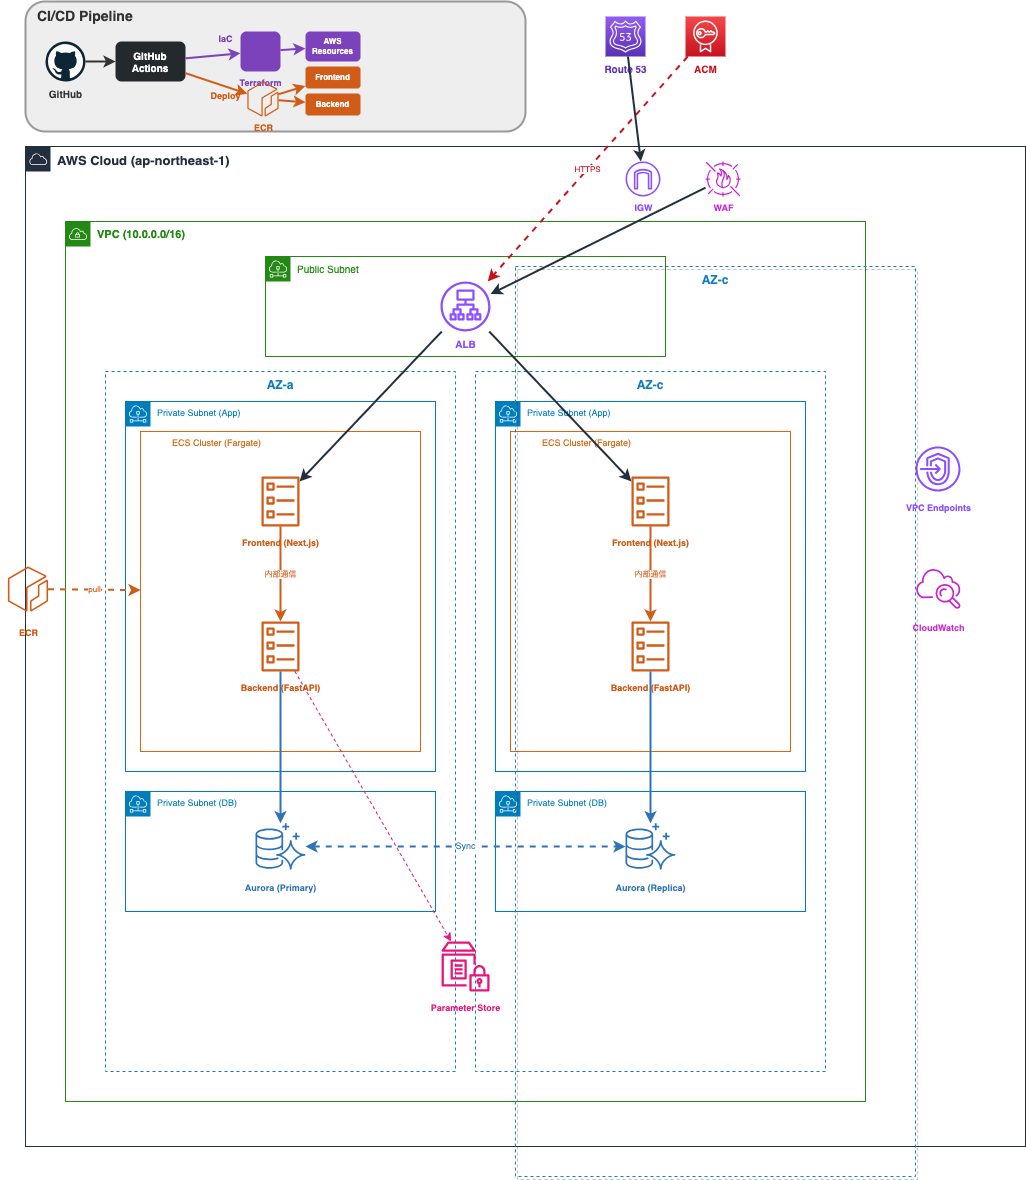
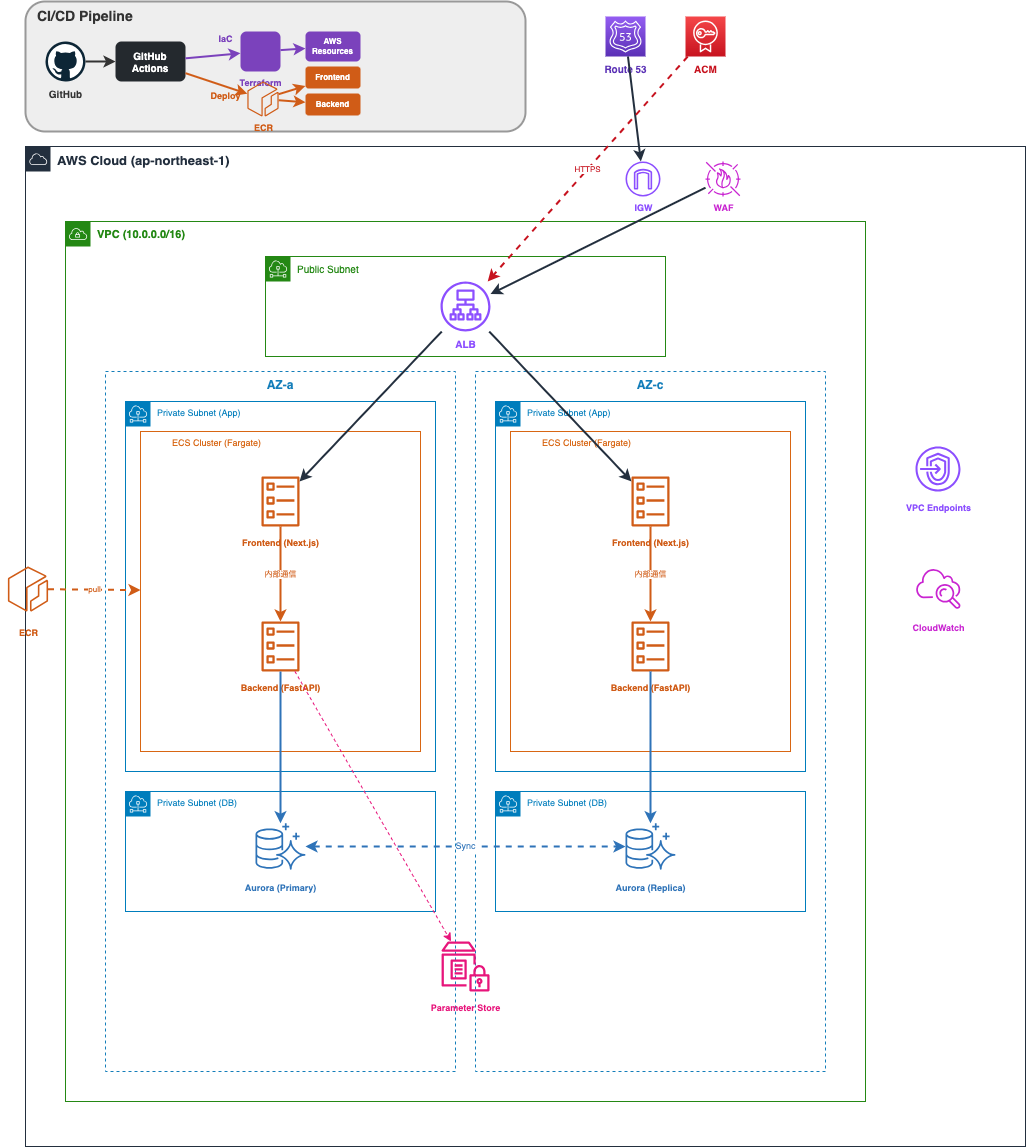
docs: セキュリティ項目追記
- ログ・監査 (CloudTrail, VPC Flow Logs, AWS Config)
- コンテナセキュリティ (ECRイメージスキャン)
- バックアップ・DR (Aurora自動バックアップ)

diff --git a/docs/architecture_spec.md b/docs/architecture_spec.md
@@ -19,7 +19,7 @@
 ### 3.1 ネットワークセキュリティ
 - **Multi-AZ構成**:
   - ap-northeast-1a と ap-northeast-1c の2つのAZに分散配置し、高可用性を確保。
-  - 各AZにPublic/Private Subnetを配置。
+  - Public SubnetにALBを配置し、各AZのPrivate Subnetに負荷分散。
 - **VPC設計**:
   - **Public Subnet**: ALBのみを配置（NAT Gatewayは不要のため削除）。
   - **Private Subnet (App)**: ECSタスクを配置。直接のインターネット接続を遮断。
